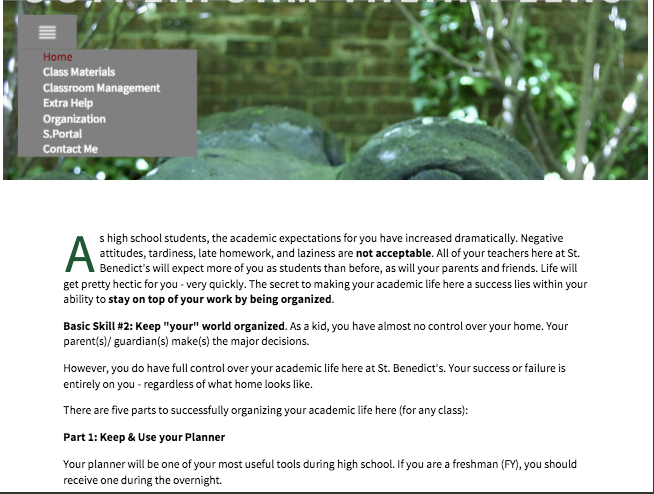
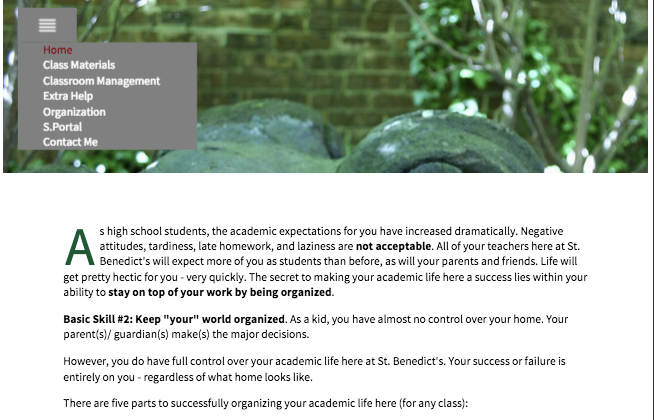
changes
changes

diff --git a/css/freshmain.css b/css/freshmain.css
@@ -60,7 +60,6 @@ text-align: center;
 /* Screen Settings */
 .lander {
     background-attachment: fixed;
-    background-image: url(../images/mybackground.jpg);
     background-position:top center;
     background-size: cover;
     -webkit-background-size: cover;
@@ -232,11 +231,11 @@ color: dimgrey;
     -o-transform: translateX(0);
     transform: translateX(0);}
 
-
 .kbtag{
 font-size: 20px;
 font-weight: 200;
-padding: 10px;
+padding-top: 20px;
+padding-bottom: 5px;
 position: relative;
 text-align: center;
 }
@@ -283,7 +282,7 @@ z-index: 100;
 
 .landercenter h1{
 font-size: 6vw;
-color: white;
+color: #222;
 position: relative;
 text-align: center;
 }
@@ -294,7 +293,7 @@ top: 3vh;
 }
 
 .landercenter h3{
-color: white;
+color: #222;
 font-size: 4vh;
 font-weight: 100;
 opacity: 1 !important;
@@ -310,9 +309,28 @@ font-size: 5vw;
 
 
 /*------Beginning of ABOUT CSS------*/
+.parallax-two{
+text-align: center;
+padding: 50px 0px; 
+overflow: hidden; 
+position: relative; 
+width: 100%; 
+background-image: url(http://farm1.static.flickr.com/124/320919737_c7579c2c1e_b.jpg);
+background-attachment: fixed; 
+background-size:cover; 
+-webkit-background-size: cover;
+-moz-background-size: cover; 
+-o-background-size: cover;
+background-repeat: no-repeat; 
+background-position: top left;
+}
+
+.parallax-two h2{
+color: white;
+}
 
 #abouttitle{
-padding: 0;
+padding-top: 20px;
 margin: 0;
 }
 
@@ -356,18 +374,18 @@ padding: 50px 0px;
 overflow: hidden; 
 position: relative; 
 width: 100%; 
-background-image: url(../images/process.jpg);
+background-image: url(http://progotisoft.com/images/process.gif);
 background-attachment: fixed; 
-background-size: cover; 
--webkit-background-size: cover;
--moz-background-size: cover; 
+background-size:contain; 
+-webkit-background-size: contain;
+-moz-background-size: contain; 
 -o-background-size: cover;
 background-repeat: no-repeat; 
-background-position: bottom center;
+background-position: top center;
 }
 
 .parallax-one h1{
-color: white;}
+color: #222;}
 
 #services {
 padding-top: 50px;
@@ -444,55 +462,82 @@ flex-wrap: wrap;
 justify-content: center;
 }
 
-#diamond{
-transition: all 1s ease;
+.casestudy1_slideshow{
+width: 100%;
+height: 420px;
+left: 0;
+right: 0;
+margin: 0 auto;
+overflow: hidden;
+position: absolute;
+background-image: url(http://pre13.deviantart.net/647c/th/pre/i/2015/010/0/3/chalkboard_texture_mc2015_by_mattiamc-d8dbnac.jpg);
 }
 
-.d1{
-height: 360px;
-width:360px;
-background: wheat;
--webkit-clip-path: polygon(0% 13%, 7% 9%, 23% 4%, 29% 5%, 51% 15%, 60% 15%, 59% 14%, 74% 15%, 88% 20%, 91% 21%, 100% 24%, 89% 23%, 82% 23%, 63% 32%, 56% 38%, 56% 40%, 38% 55%, 39% 58%, 37% 61%, 34% 83%, 30% 85%, 27% 88%, 24% 93%, 28% 73%, 25% 74%, 31% 59%, 32% 53%, 31% 49%, 36% 41%, 31% 35%, 23% 30%, 16% 25%, 3% 20%, 9% 19%, 5% 15%, 0% 13%);
-clip-path: polygon(0% 13%, 7% 9%, 23% 4%, 29% 5%, 51% 15%, 56% 17%, 59% 14%, 74% 15%, 88% 19%, 91% 20%, 100% 24%, 89% 23%, 82% 23%, 63% 32%, 56% 38%, 56% 40%, 38% 55%, 39% 58%, 37% 61%, 34% 83%, 30% 85%, 27% 88%, 24% 93%, 28% 73%, 25% 74%, 31% 59%, 32% 53%, 31% 49%, 36% 41%, 31% 35%, 23% 30%, 16% 25%, 6% 22%, 9% 19%, 5% 15%, 0% 13%);
+.slide_1, .slide_2, .slide_3{
+position: absolute;
+width: 90%;
+height: 400px;
+background-size: contain;
+}
+.slide_1{background-image:url(../images/sbpalgebra-cs.png); background-repeat: no-repeat; background-position:center;  left: 30px;}
+.slide_2{background-image:url(../images/menuscreenshot.png); background-repeat: no-repeat; background-position: center; left:1720px;}
+.slide_3{background-image:url(../images/lessonscreenshot.png); background-repeat: no-repeat; background-position: center; left: 3300px;}
+
+.cs1_slide{
+width: 618px;
+height: 410px;
+left: 2vw;
+right: 0px;
+margin: 0 auto;
+position: absolute;
+-webkit-animation-duration: 10s;
+-webkit-animation-iteration-count: 5;
+-webkit-animation-name: casestudy_slide;
+-moz_animation-duration: 10s;
+-moz-animation-iteration-count: 5;
+-moz-animation-name: casestudy_slide;
+-ms-animation-duration: 10s;
+-ms-animation-iteration-count: 5;
+-ms-animation-name: casestudy_slide;
 }
 
-.d1:hover{
-background-image: url(../images/sbpalgebra-cs.png);
-background-position: top center;
-background-repeat: no-repeat;
-background-size: cover;
--webkit-clip-path: polygon(100% 100%, 100% 85%, 100% 0%, 0% 0%, 0% 15%, 0% 25%, 0% 40%, 0% 55%, 0% 60%, 0% 80%, 0% 90%, 0% 100%, 20% 100%, 30% 100%, 40% 100%, 50% 100%, 60% 100%, 65% 100%, 70% 100%, 75% 100%, 80% 100%, 85% 100%, 90% 100%, 95% 100%, 100% 100%, 100% 100%, 100% 100%, 100% 100%, 100% 100%, 100% 100%, 100% 100%, 100% 100%, 100% 100%, 100% 100%, 100% 100%, 100% 100%);
-clip-path: polygon(100% 100%, 100% 85%, 100% 0%, 0% 0%, 0% 15%, 0% 25%, 0% 40%, 0% 55%, 0% 60%, 0% 80%, 0% 90%, 0% 100%, 20% 100%, 30% 100%, 40% 100%, 50% 100%, 60% 100%, 65% 100%, 70% 100%, 75% 100%, 80% 100%, 85% 100%, 90% 100%, 95% 100%, 100% 100%, 100% 100%, 100% 100%, 100% 100%, 100% 100%, 100% 100%, 100% 100%, 100% 100%, 100% 100%, 100% 100%, 100% 100%, 100% 100%);\
--webkit-box-shadow: 10px 10px 5px 0px rgba(0,0,0,0.75);
--moz-box-shadow: 10px 10px 5px 0px rgba(0,0,0,0.75);
-box-shadow: 10px 10px 5px 0px rgba(0,0,0,0.75);
+@-webkit-keyframes casestudy_slide{
+    0%{left: 30px;}
+    22%{left:30px;}
+    33%{left:-3440px;}
+    45%{left:-3440px;}
+    66%{left: -6620px;}
+    90%{left: -6620px;}   
 }
-
-.d2{
-background: wheat;
-height: 360px;
-width:360px;
--webkit-clip-path: polygon(9% 14%, 17% 18%, 29% 24%, 37% 24%, 44% 31%, 50% 36%, 57% 23%, 62% 24%, 66% 20%, 89% 18%, 84% 23%, 82% 24%, 79% 30%, 76% 31%, 74% 38%, 71% 41%, 66% 54%, 61% 55%, 64% 68%, 70% 82%, 66% 86%, 60% 84%, 56% 81%, 57% 70%, 43% 60%, 38% 49%, 36% 41%, 31% 36%, 30% 30%);
-clip-path: polygon(9% 14%, 17% 18%, 29% 24%, 37% 24%, 44% 31%, 50% 36%, 57% 23%, 62% 24%, 66% 20%, 89% 18%, 84% 23%, 82% 24%, 79% 30%, 76% 31%, 74% 38%, 71% 41%, 66% 54%, 61% 55%, 64% 68%, 70% 82%, 66% 86%, 60% 84%, 56% 81%, 57% 70%, 43% 60%, 38% 49%, 36% 41%, 31% 36%, 30% 30%);
-z-index: 100;
+@-moz-keyframes casestudy_slide{
+    0%{left: 30px;}
+    22%{left:30px;}
+    33%{left:-3440px;}
+    45%{left:-3440px;}
+    66%{left: -6620px;}
+    90%{left: -6620px;}  
 }
-
-.d2:hover{
-background-image: url(../images/menuscreenshot.png);
-background-position: top left;
-background-repeat: no-repeat;
-background-size: cover;
--webkit-clip-path: polygon(100% 0%, 90% 0%, 80% 0%, 60% 0%, 40% 0%, 20% 0%, 0% 0%, 0% 24%, 0% 40%, 0% 58%, 0% 63%, 0% 74%, 0% 90%, 0% 100%, 14% 100%, 27% 100%, 46% 100%, 61% 100%, 84% 100%, 100% 100%, 100% 86%, 100% 74%, 100% 64%, 100% 50%, 100% 40%, 100% 29%, 100% 15%, 100% 8%, 100% 0%);
-clip-path: polygon(100% 0%, 90% 0%, 80% 0%, 60% 0%, 40% 0%, 20% 0%, 0% 0%, 0% 24%, 0% 40%, 0% 58%, 0% 63%, 0% 74%, 0% 90%, 0% 100%, 14% 100%, 27% 100%, 46% 100%, 61% 100%, 84% 100%, 100% 100%, 100% 86%, 100% 74%, 100% 64%, 100% 50%, 100% 40%, 100% 29%, 100% 15%, 100% 8%, 100% 0%);
-z-index: 150;
--webkit-box-shadow: 10px 10px 5px 0px rgba(0,0,0,0.75);
--moz-box-shadow: 10px 10px 5px 0px rgba(0,0,0,0.75);
-box-shadow: 10px 10px 5px 0px rgba(0,0,0,0.75);
+@-ms-keyframes casestudy_slide{
+    0%{left: 30px;}
+    22%{left:30px;}
+    33%{left:-3440px;}
+    45%{left:-3440px;}
+    66%{left: -6620px;}
+    90%{left: -6620px;} 
+}
+@keyframes casestudy_slide{
+    0%{left: 30px;}
+    22%{left:30px;}
+    33%{left:-3350px;}
+    45%{left:-3350px;}
+    66%{left: -6520px;}
+    90%{left: -6520px;} 
 }
 
 #casestudy1{
-padding:0px 20px;
-width:360px;
+padding-top: 440px;
+padding-bottom: 50px;
+width:900px;
 }
 
 #casestudy1 h3, h4{
@@ -661,19 +706,37 @@ display: flex;
 flex-direction:column;
 }
 
-    #diamond{
-    height: 280px;
-    width: 360px;
-    }
+.casestudy1_slideshow{
+height: 300px;
+}
 
- #diamond:hover{
-height: 280px;
-    width: 360px;
-    }
+.cs1_slide{
+height: 300px;
+}
     
 #casestudy1{
-padding:20px;
+padding-top: 340px;
+padding-left: 10px;
+padding-right: 10px;
 width:100%;
+}
+    
+.slide_1, .slide_2, .slide_3{
+margin: 20px;
+height: 260px;
+width: 320px;   
+}
+    
+.slide_1{
+left:-20px;
+}
+
+.slide_2{
+left: 1810px;
+}
+    
+.slide_3{
+left:3390px;
 }
 /*------End of Portfolio Panel CSS------*/
 

diff --git a/index.html b/index.html
@@ -113,12 +113,16 @@ Clients and Publications:
 
 <!---Beginning of the About Panel -->
 
-<section class="block" id="about">
+<section id="about">
+
+<section class="parallax-two">
+    <h2 class="paneltitle">ABOUT</h2>
+</section>
+
 <div class="containerContent">
 <div class="set_size_section1">
-    <div id="abouttitle">
-    <h2 class="paneltitle">ABOUT</h2>
-        <div class="kirbybwaii"><span><span class="ground">____</span>(o_o)<span class="ground">____</span><span class="client">(╯°□°）╯</span><span class="furniture">︵ ┻━┻</span><span class="ground">____</span><span class="bad">(ノ⌒∇)ノ</span></span></div>
+    <div id="abouttitle">        
+    <div class="kirbybwaii"><span><span class="ground">____</span>(o_o)<span class="ground">____</span><span class="client">(╯°□°）╯</span><span class="furniture">︵ ┻━┻</span><span class="ground">____</span><span class="bad">(ノ⌒∇)ノ</span></span></div>
     <p class="kbtag"><i>Don't get angry... There's a better way</i>.</p>
     </div>
     <div class="aboutarticles" id="aboutarticles">
@@ -152,7 +156,7 @@ Clients and Publications:
 <section id="services">
 <div class="containerContent">
 <div>
-    <div class="kirbybwaii"> <span class="client">(o'.')o</span><span class="bad">╭(×̯×)╮</span><span>Q('.'O)</span></div>
+    <div class="kirbybwaii"> <span class="client">(O'.')O</span><span class="bad">╭(×̯×)╮</span><span>Q('.'O)</span></div>
     <p class="kbtag">We can find the problem and fix it.</p>
     
     
@@ -208,11 +212,19 @@ Clients and Publications:
 <div class="set_size_section1">
     <div id="portfoliotitle">
     <h2 class="paneltitle">CASE STUDIES</h2>
-    <div class="kirbybwaii"><span class="ground">____</span><span>(◡‿◡)</span><span class="ground">____</span><span class="client">∩(*▽*)∩</span><span class="ground">____</span></div>
+    <div class="kirbybwaii"><span class="ground">____</span><span class="client">∩(*▽*)∩</span><span class="ground">____</span></div>
     <p class="kbtag"><i>My most recent projects</i>.</p>
     </div>
 <div id="flexportfolio">
-    <div id="diamond" class="d1">
+
+    <div align="center">
+        <div class="casestudy1_slideshow">
+            <div class="cs1_slide">
+                <div class="slide_1"></div>
+                <div class="slide_2"></div>
+                <div class="slide_3"></div>
+            </div>
+        </div>
     </div>
     
     <div id="casestudy1">
@@ -222,9 +234,6 @@ Clients and Publications:
         <p>What can be done to make course material more accessible to the post-mellinial generation? I may have had an iPod, a cellphone, a computer, and internet access in my home as a child, but all of those technological advances in the mid to late 90s pale in comparison to the processing power and speed of today's technology. All of which, amazingly, my students have possessed since they were in diapers.</p>
         <p>How can educators encourage students to learn in a world where most students have almost an emotional connection to their personal devices? How can we reprogram bad habits (both inside and outside of the classroom) into good ones? How can classroom content be disseminated so that it is more accessible and interative?   I made an honest attempt here to answer these questinos by reorganizing my course material so that it is more accessible to my students. Seemless, responsive, and informative course design. </br><a href="http://sbpalgebra.org">Take a look.</a></p>
         </article>
-    </div>
-    
-    <div id="diamond" class="d2">
     </div>
     
 </div>
